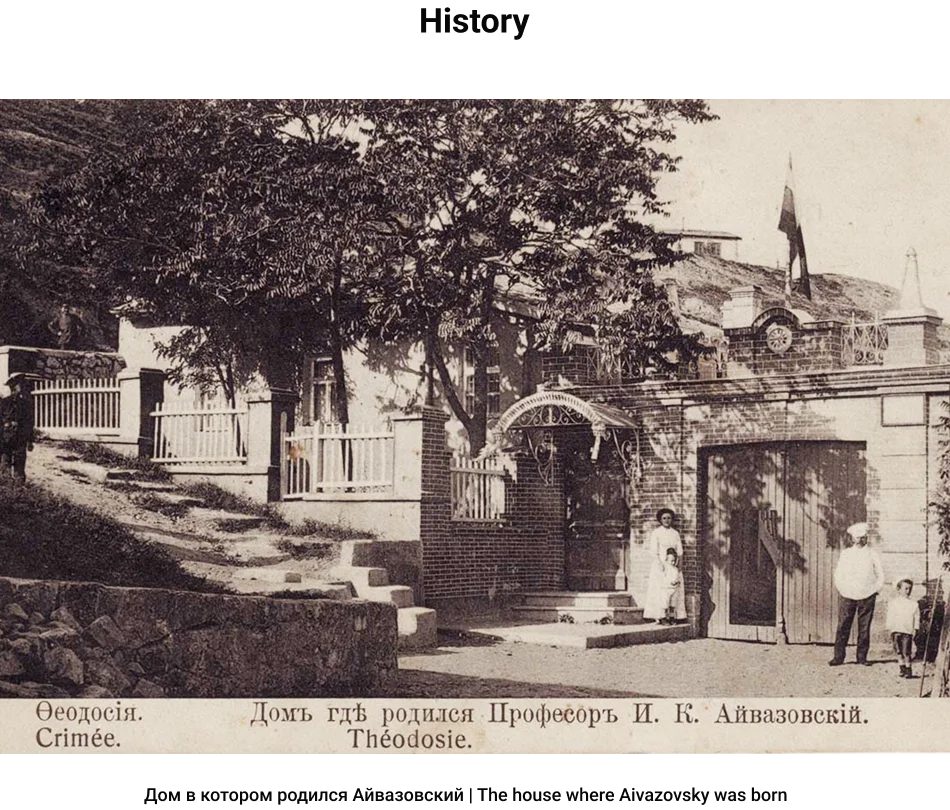
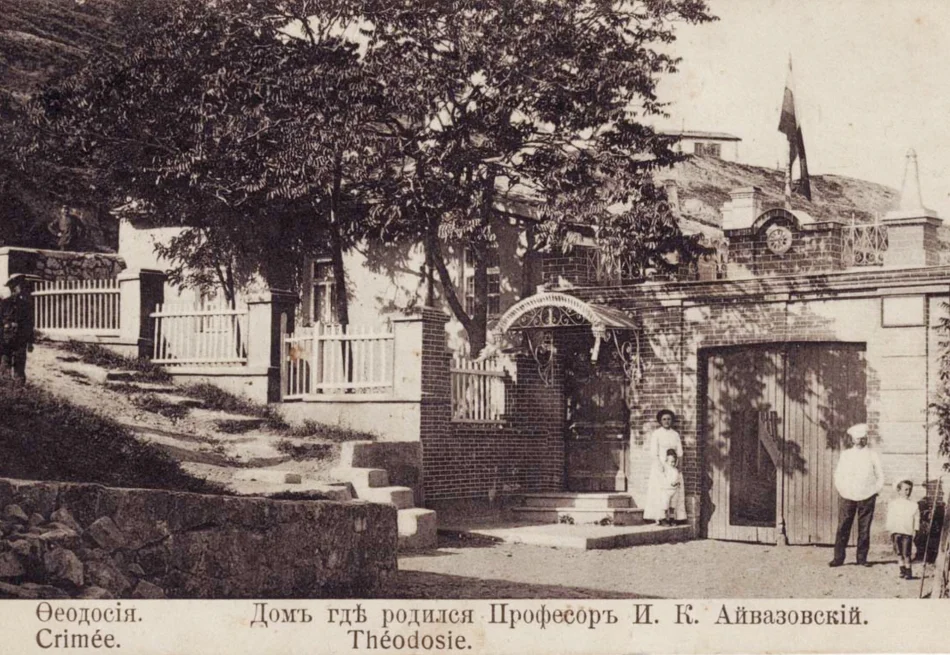
added history

diff --git a/index.html b/index.html
@@ -65,6 +65,13 @@
                     of the greatest marine painters of all time.</p>
             </div>
         </section>
+        <section class="history-section" aria-label="history section">
+            <div class="container">
+                <h1 class="history-title" aria-label="history title">History</h1>
+                <img src="assets/webp/History.webp" alt="Фото дома Айвазовского" class="history-img">
+                <p class="history-description" aria-label="history description">Дом в котором родился Айвазовский | The house where Aivazovsky was born </p>
+            </div>
+        </section>
     </main>
     <footer>
 

diff --git a/styles/history.css b/styles/history.css
@@ -1,0 +1,42 @@
+.history-section {
+    padding: 65px 0 70px;
+    text-align: center;
+}
+
+.history-title {
+    font-size: 34px;
+    font-weight: 700;
+    margin: 0 0 70px;
+}
+
+.history-img {
+    width: 100%;
+    max-width: 950px;
+    height: 655px;
+    object-fit: cover;
+    margin: 0 0 30px;
+}
+
+.history-description {
+    font-size: 18px;
+    font-weight: 500;
+}
+
+@media (max-width: 480px) {
+    .history-section {
+        padding: 0;
+        text-align: center;
+    }
+
+    .history-title {
+        margin: 0 0 40px;
+    }
+
+    .history-img {
+        height: 480px;
+    }
+
+    .history-description {
+        font-size: 14px;
+    }
+}

diff --git a/index.css b/index.css
@@ -3,3 +3,4 @@
 @import url("styles/header.css");
 @import url("styles/home.css");
 @import url("styles/about.css");
+@import url(styles/history.css);
